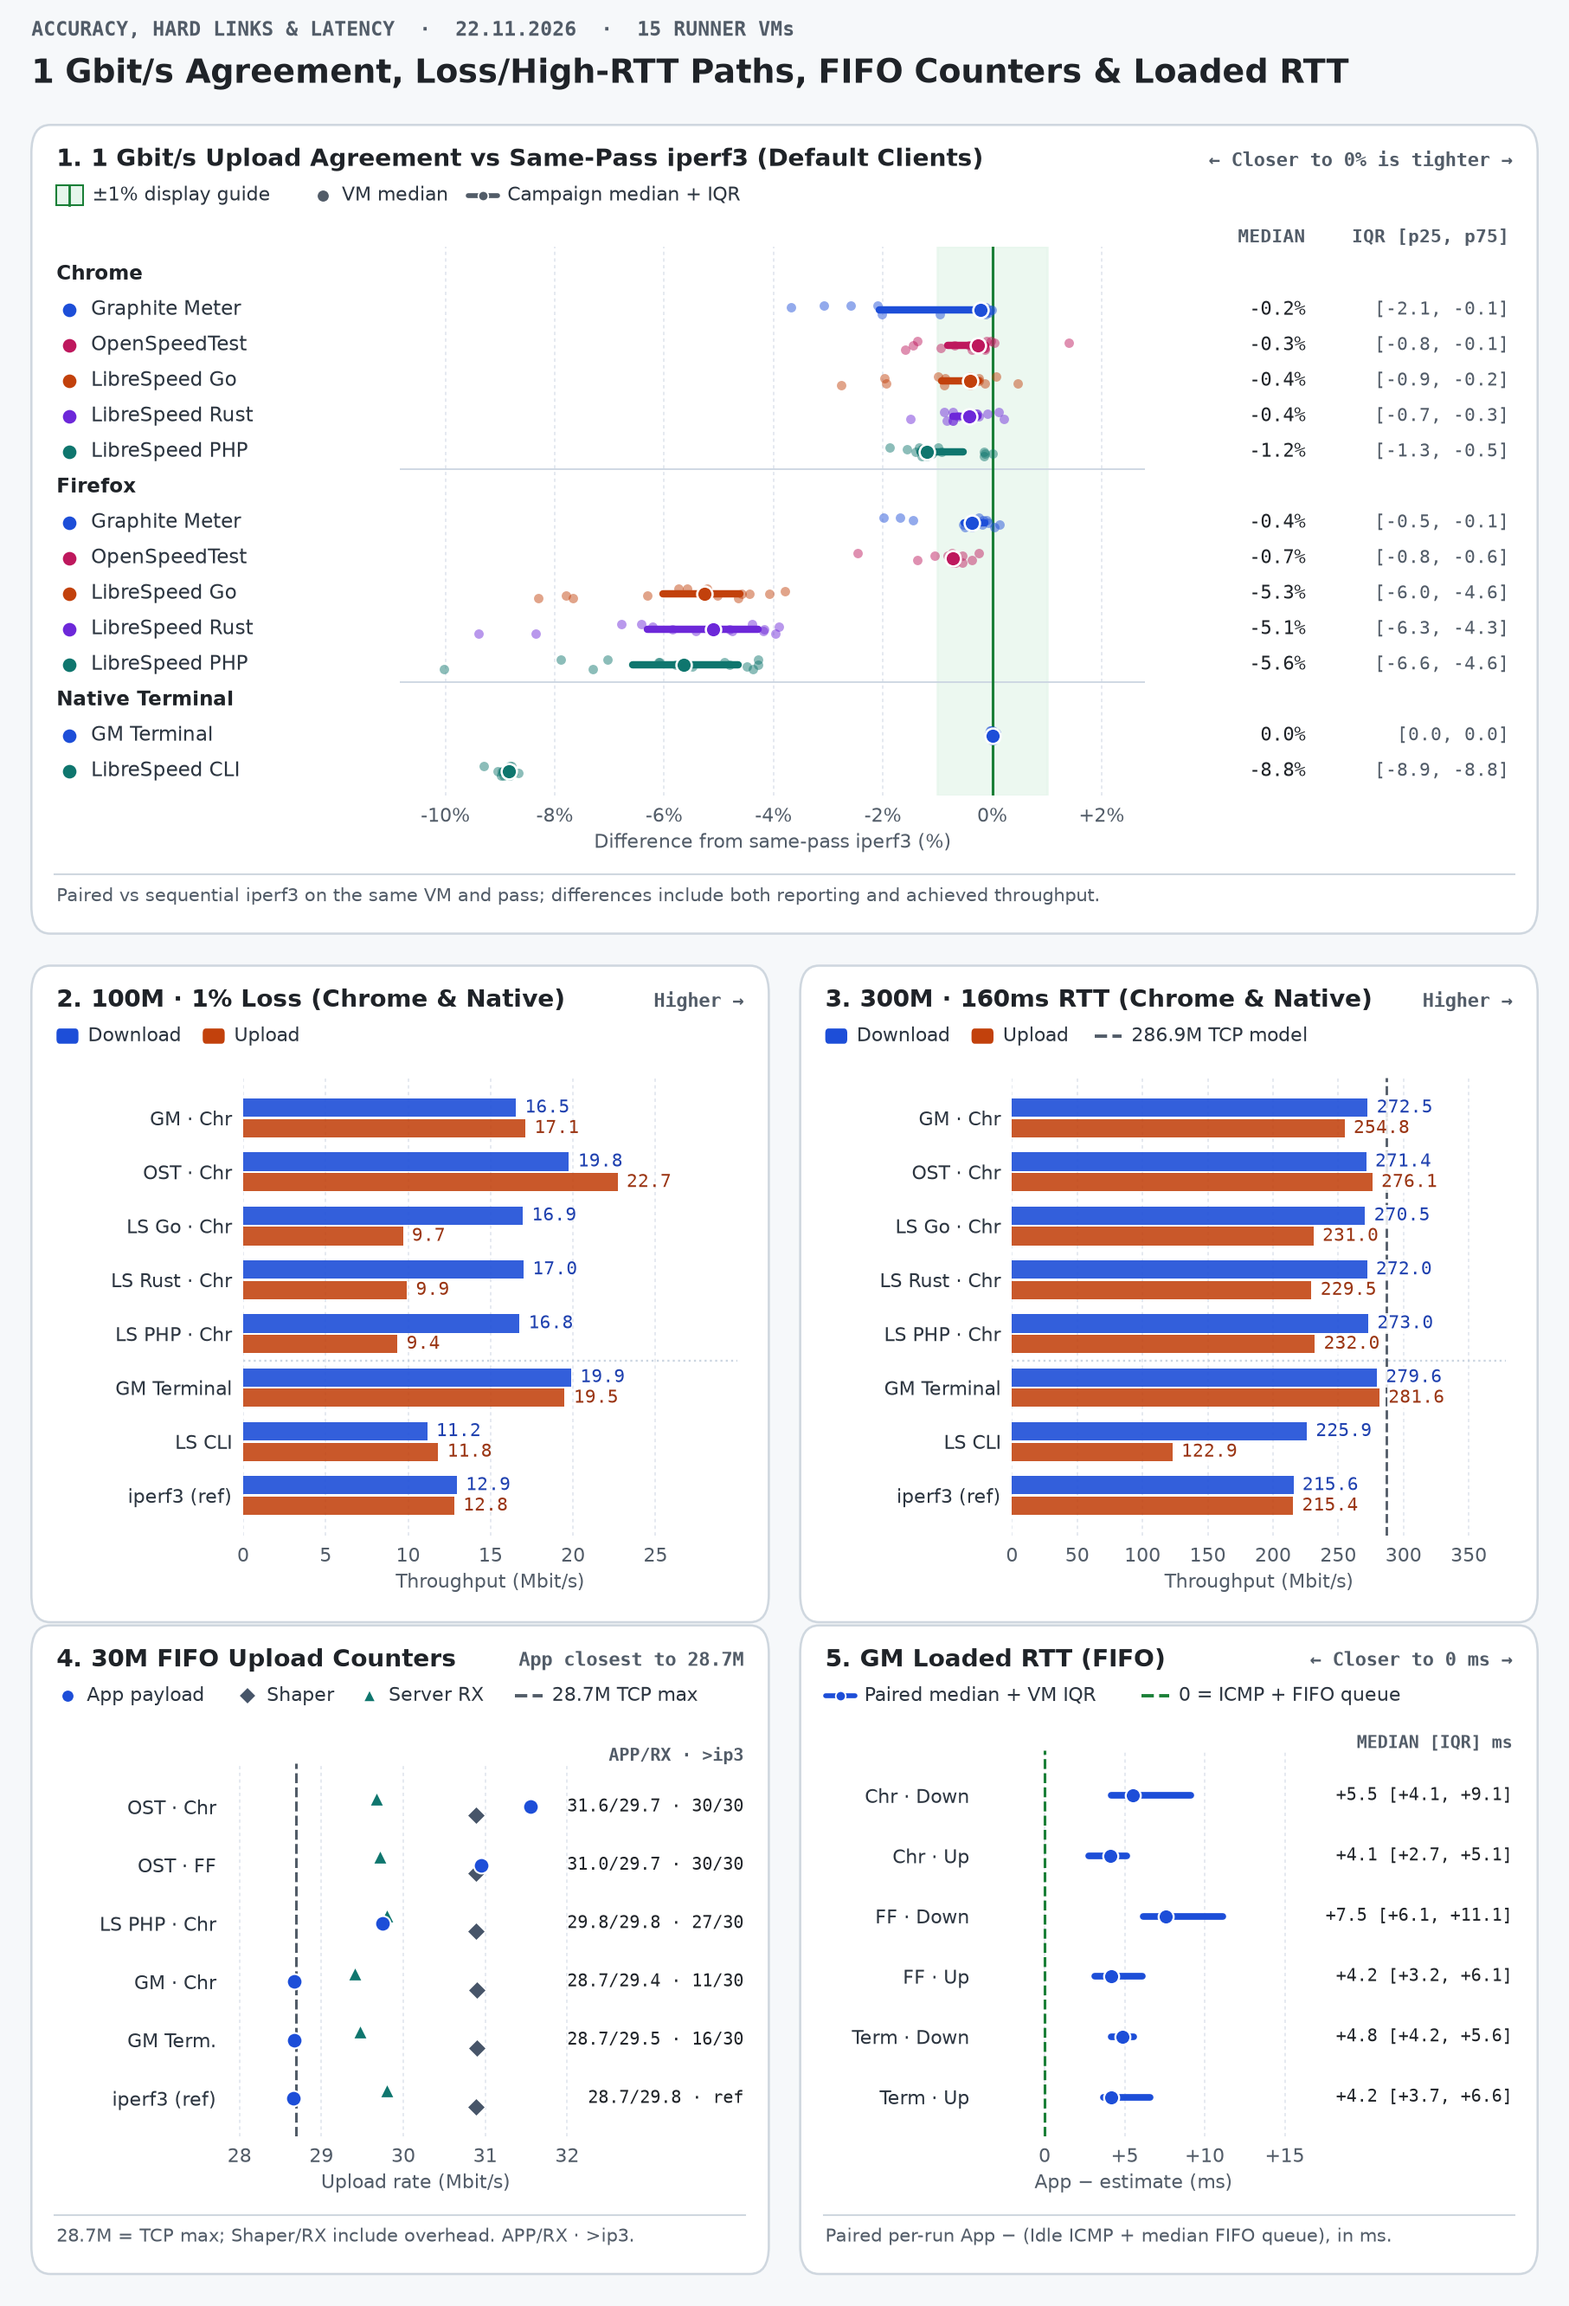
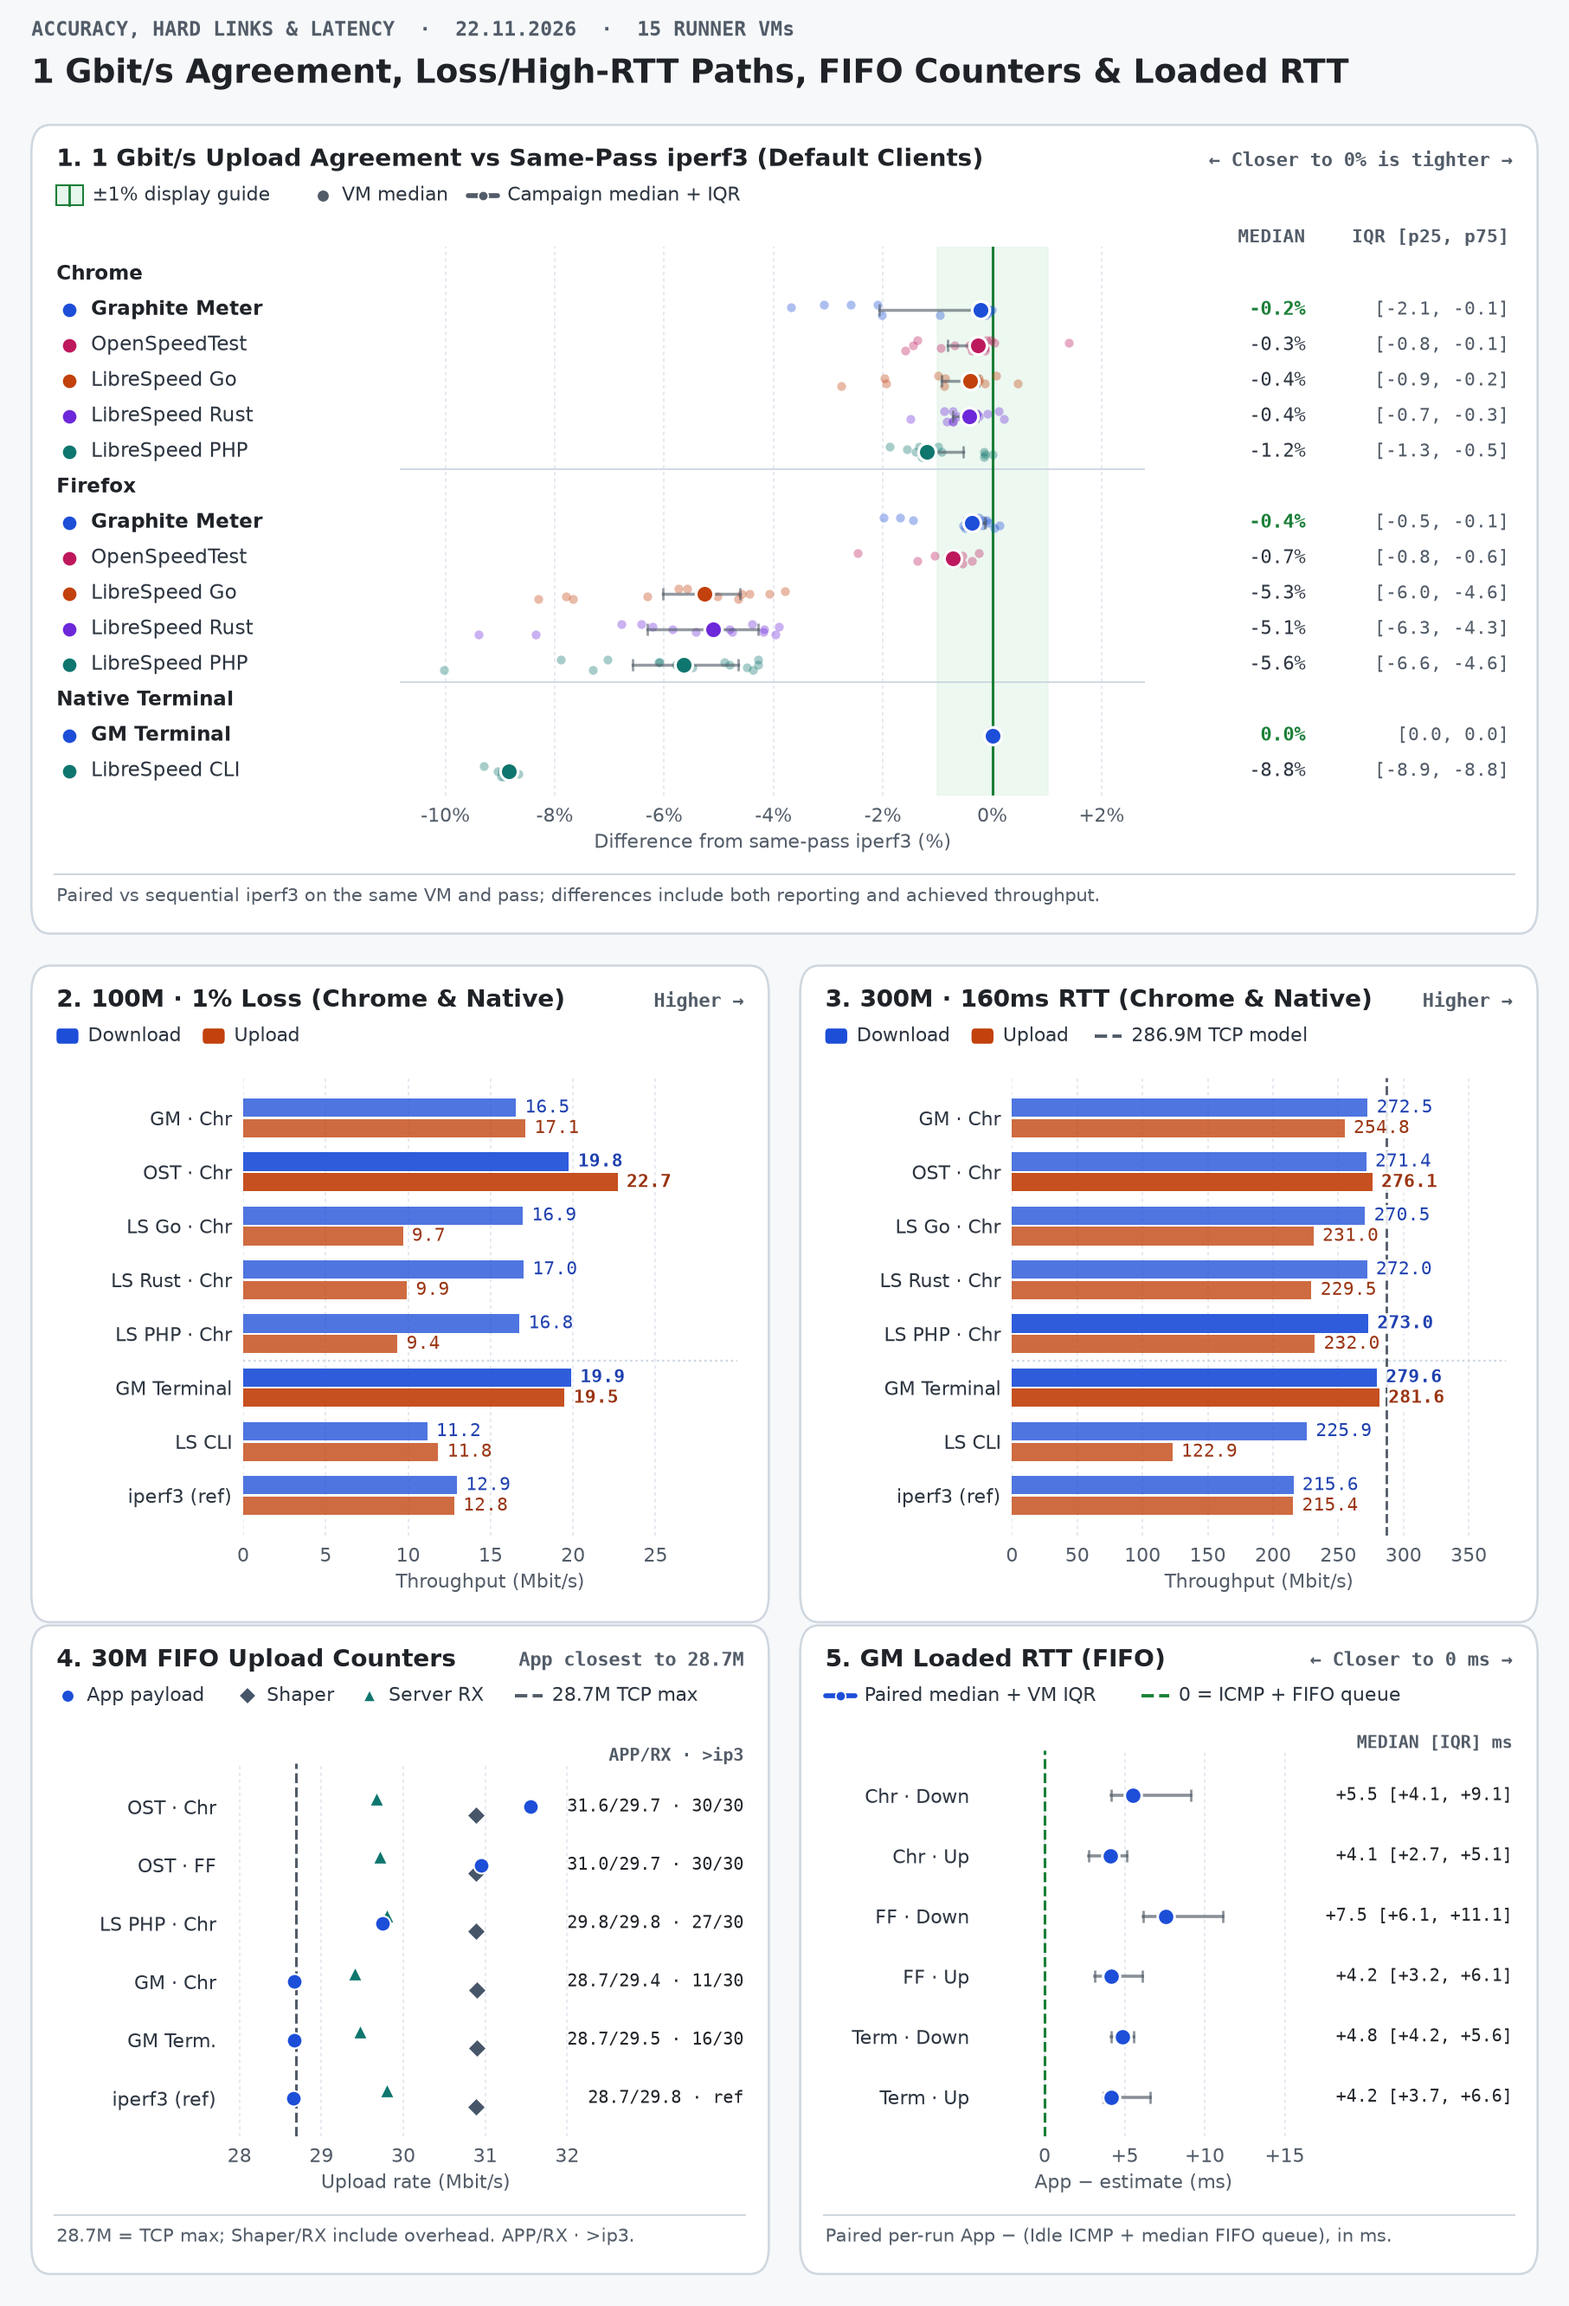
charts: use subtle capped IQR whiskers and bold group leaders on accuracy/resources

diff --git a/bench/charts.py b/bench/charts.py
@@ -516,6 +516,16 @@ def render_accuracy_chart(
                 agree_rows.append(("row", lbl, cl, measure(PLAIN, cl, lambda r: paired(r, UPLOAD))))
 
         all_a = [v for k, _, _, vs in agree_rows if k == "row" and vs for v in vs]
+        # Identify closest-to-0% median leader per browser/native group.
+        group_best_agree = {}
+        cur_sec = None
+        for idx, (kind, _, _, vs) in enumerate(agree_rows):
+            if kind == "sec":
+                cur_sec = idx
+            elif vs:
+                med = abs(spread(vs)[0])
+                if cur_sec not in group_best_agree or med < group_best_agree[cur_sec]:
+                    group_best_agree[cur_sec] = med
         ax1.axvspan(-1.0, 1.0, color=t["good_band"], alpha=0.88 if theme == "dark" else 0.75, zorder=0)
         ax1.axvline(0.0, color=t["good"], linewidth=1.2, zorder=2)
         bl1 = matplotlib.transforms.blended_transform_factory(fig.transFigure, ax1.transData)
@@ -523,24 +533,30 @@ def render_accuracy_chart(
                  fontsize=8.1, family="DejaVu Sans Mono", color=t["muted"], weight="bold")
         ax1.text(0.962, -0.78, "IQR [p25, p75]", transform=bl1, ha="right", va="bottom",
                  fontsize=8.1, family="DejaVu Sans Mono", color=t["muted"], weight="bold")
+        cur_sec = None
         for i, (kind, lbl, cl, vs) in enumerate(agree_rows):
             if kind == "sec":
+                cur_sec = i
                 if i > 0:
                     ax1.axhline(i - 0.50, color=t["divider"], linewidth=0.7, zorder=1)
                 ax1.text(0.036, i, lbl, transform=bl1, va="center", ha="left",
                          fontsize=9.1, weight="bold", color=t["ink"])
                 continue
             col = t["family"][_family_of(cl[0])]
+            is_best = bool(vs) and cur_sec in group_best_agree and abs(abs(spread(vs)[0]) - group_best_agree[cur_sec]) < 1e-9
             ax1.scatter(0.044, i, transform=bl1, color=col, s=26, clip_on=False, zorder=5)
-            ax1.text(0.058, i, lbl, transform=bl1, va="center", ha="left", fontsize=8.8, color=t["text"])
+            ax1.text(0.058, i, lbl, transform=bl1, va="center", ha="left", fontsize=8.8,
+                     color=t["ink"] if is_best else t["text"], weight="bold" if is_best else "normal")
             if vs:
                 med, lo, hi = spread(vs)
-                offs = [i + ((k % 5) - 2) * 0.065 for k in range(len(vs))]
-                ax1.scatter(vs, offs, color=col, s=18, alpha=0.62 if theme == "dark" else 0.48, linewidth=0, zorder=3)
-                ax1.plot([lo, hi], [i, i], color=col, linewidth=3.3, solid_capstyle="round", zorder=4)
-                ax1.scatter(med, i, color=col, s=48, edgecolor=t["card"], linewidth=1.0, zorder=5)
+                offs = [i + ((k % 5) - 2) * 0.075 for k in range(len(vs))]
+                ax1.scatter(vs, offs, color=col, s=16, alpha=0.45 if theme == "dark" else 0.36, linewidth=0, zorder=3)
+                ax1.plot([lo, hi], [i, i], color=t["muted"], alpha=0.62, linewidth=1.35,
+                         marker="|", markersize=5.2, markeredgewidth=1.05, zorder=4)
+                ax1.scatter(med, i, color=col, s=62, edgecolor=t["card"], linewidth=1.25, zorder=6)
                 ax1.text(0.832, i, f"{fmt_num(med, 1, True)}%", transform=bl1, ha="right", va="center",
-                         fontsize=8.6, family="DejaVu Sans Mono", color=t["ink"])
+                         fontsize=8.6, family="DejaVu Sans Mono",
+                         color=t["good"] if is_best else t["text"], weight="bold" if is_best else "normal")
                 ax1.text(0.962, i, f"[{fmt_num(lo, 1)}, {fmt_num(hi, 1)}]", transform=bl1, ha="right", va="center",
                          fontsize=8.2, family="DejaVu Sans Mono", color=t["muted"])
         ax1.set_yticks([])
@@ -580,16 +596,28 @@ def render_accuracy_chart(
             yc = np.arange(len(data))
             all_h = [v for _, dv, uv in data for v in (dv, uv) if v is not None]
             mx = max([*(all_h or [1.0]), ceil_x or 1.0])
+            # Identify group leaders (Chrome rows 0..4, Native rows 5..) separately.
+            def _best_in(rng, col_idx):
+                vals = [data[k][col_idx] for k in rng if k < len(data) and data[k][col_idx] is not None]
+                return max(vals) if vals else None
+            best_d_br, best_u_br = _best_in(range(0, 5), 1), _best_in(range(0, 5), 2)
+            best_d_na, best_u_na = _best_in(range(5, len(data)), 1), _best_in(range(5, len(data)), 2)
             for i, (_, dv, uv) in enumerate(data):
                 lb_box = dict(facecolor=t["card"], edgecolor="none", pad=0.5, alpha=0.85) if ceil_x else None
+                bd = best_d_br if i < 5 else best_d_na
+                bu = best_u_br if i < 5 else best_u_na
                 if dv is not None:
-                    axc.barh(i - 0.19, dv, height=0.34, color=t["dl"], alpha=0.90, zorder=3)
+                    is_bd = bd is not None and abs(dv - bd) < 1e-9
+                    axc.barh(i - 0.19, dv, height=0.34, color=t["dl"], alpha=0.92 if is_bd else 0.78, zorder=3)
                     axc.text(dv + mx * 0.024, i - 0.19, f"{dv:.1f}", va="center", ha="left",
-                             fontsize=8.3, family="DejaVu Sans Mono", color=t["dl_txt"], bbox=lb_box, zorder=5)
+                             fontsize=8.3, family="DejaVu Sans Mono", color=t["dl_txt"],
+                             weight="bold" if is_bd else "normal", bbox=lb_box, zorder=5)
                 if uv is not None:
-                    axc.barh(i + 0.19, uv, height=0.34, color=t["ul"], alpha=0.88, zorder=3)
+                    is_bu = bu is not None and abs(uv - bu) < 1e-9
+                    axc.barh(i + 0.19, uv, height=0.34, color=t["ul"], alpha=0.92 if is_bu else 0.78, zorder=3)
                     axc.text(uv + mx * 0.024, i + 0.19, f"{uv:.1f}", va="center", ha="left",
-                             fontsize=8.3, family="DejaVu Sans Mono", color=t["ul_txt"], bbox=lb_box, zorder=5)
+                             fontsize=8.3, family="DejaVu Sans Mono", color=t["ul_txt"],
+                             weight="bold" if is_bu else "normal", bbox=lb_box, zorder=5)
             if ceil_x:
                 axc.axvline(ceil_x, color=t["muted"], linestyle="--", linewidth=1.1, zorder=1)
             axc.axhline(4.5, color=t["divider"], linestyle=":", linewidth=0.9)
@@ -683,8 +711,9 @@ def render_accuracy_chart(
         all_d = [0.0]
         for i, (_, (med, lo, hi)) in enumerate(f_rows):
             all_d.extend([lo, hi])
-            ax5.plot([lo, hi], [i, i], color=t["dl"], linewidth=3.0, solid_capstyle="round", zorder=4)
-            ax5.scatter(med, i, color=t["dl"], s=46, edgecolor=t["card"], linewidth=0.9, zorder=5)
+            ax5.plot([lo, hi], [i, i], color=t["muted"], alpha=0.68, linewidth=1.4,
+                     marker="|", markersize=5.2, markeredgewidth=1.05, zorder=4)
+            ax5.scatter(med, i, color=t["dl"], s=58, edgecolor=t["card"], linewidth=1.15, zorder=6)
             ax5.text(0.964, i, f"{med:+.1f} [{lo:+.1f}, {hi:+.1f}]", transform=bl5, ha="right", va="center",
                      fontsize=7.9, family="DejaVu Sans Mono", color=t["ink"])
         ax5.set_yticks(y5)
@@ -840,17 +869,28 @@ def render_resources_chart(out_stem, *, report_date, vm_count, groups, measure, 
         ax1u = _add_ax(fig, 0.312, c1_y + 0.84, 0.165, c1_h - 1.56, t, "x")
         md = max([x[1] for x in r1 if x[1] is not None] + [0.5])
         mu = max([x[2] for x in r1 if x[2] is not None] + [5.0])
+        def _min_in(rng, col_idx):
+            vals = [r1[k][col_idx] for k in rng if k < len(r1) and r1[k][col_idx] is not None]
+            return min(vals) if vals else None
+        best_d_br, best_u_br = _min_in(range(0, 5), 1), _min_in(range(0, 5), 2)
+        best_d_na, best_u_na = _min_in(range(5, len(r1)), 1), _min_in(range(5, len(r1)), 2)
         for i, (_, dv, uv, dr, ur) in enumerate(r1):
+            bd = best_d_br if i < 5 else best_d_na
+            bu = best_u_br if i < 5 else best_u_na
             if dv is not None:
-                ax1d.barh(i, dv, height=0.62, color=t["dl"], alpha=0.90, zorder=3)
+                is_bd = bd is not None and abs(dv - bd) < 1e-9
+                ax1d.barh(i, dv, height=0.62, color=t["dl"], alpha=0.92 if is_bd else 0.78, zorder=3)
                 drt = f" ({dr:.0f}M)" if dr is not None else ""
                 ax1d.text(dv + md * 0.03, i, f"{dv:.2f}{drt}", va="center", ha="left",
-                          fontsize=7.8, family="DejaVu Sans Mono", color=t["dl_txt"])
+                          fontsize=7.8, family="DejaVu Sans Mono", color=t["dl_txt"],
+                          weight="bold" if is_bd else "normal")
             if uv is not None:
-                ax1u.barh(i, uv, height=0.62, color=t["ul"], alpha=0.88, zorder=3)
+                is_bu = bu is not None and abs(uv - bu) < 1e-9
+                ax1u.barh(i, uv, height=0.62, color=t["ul"], alpha=0.92 if is_bu else 0.78, zorder=3)
                 urt = f" ({ur:.0f}M)" if ur is not None else ""
                 ax1u.text(uv + mu * 0.03, i, f"{uv:.2f}{urt}", va="center", ha="left",
-                          fontsize=7.8, family="DejaVu Sans Mono", color=t["ul_txt"])
+                          fontsize=7.8, family="DejaVu Sans Mono", color=t["ul_txt"],
+                          weight="bold" if is_bu else "normal")
         for axp in (ax1d, ax1u):
             axp.axhline(4.5, color=t["divider"], linestyle=":", linewidth=0.9)
             axp.set_yticks(y1)
